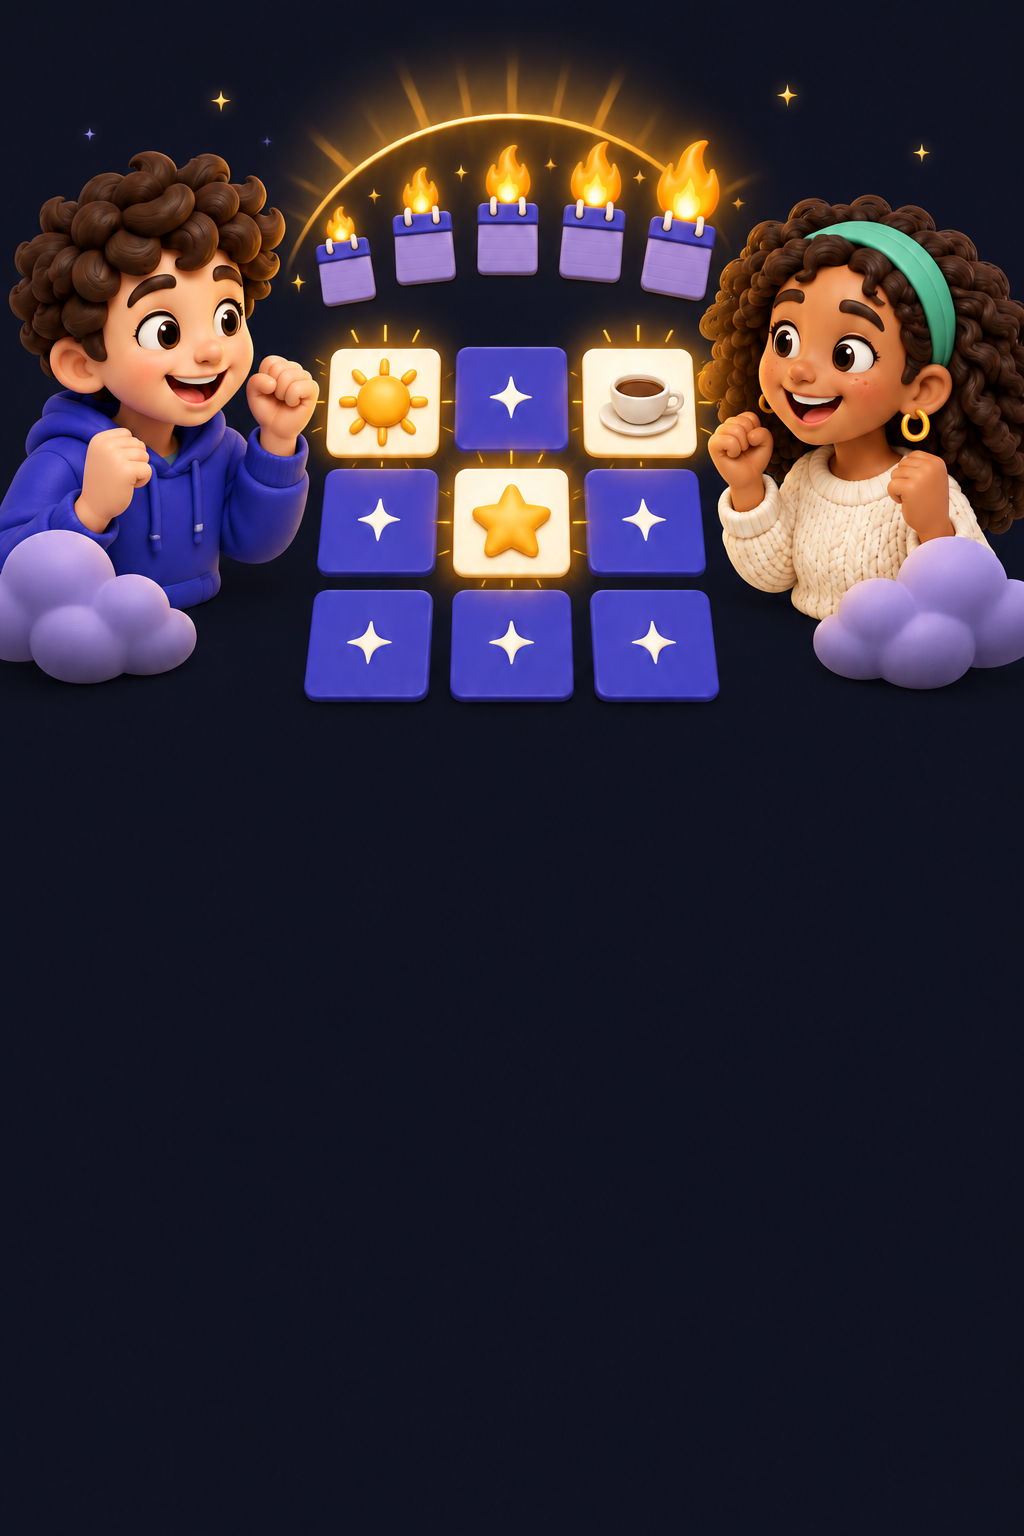
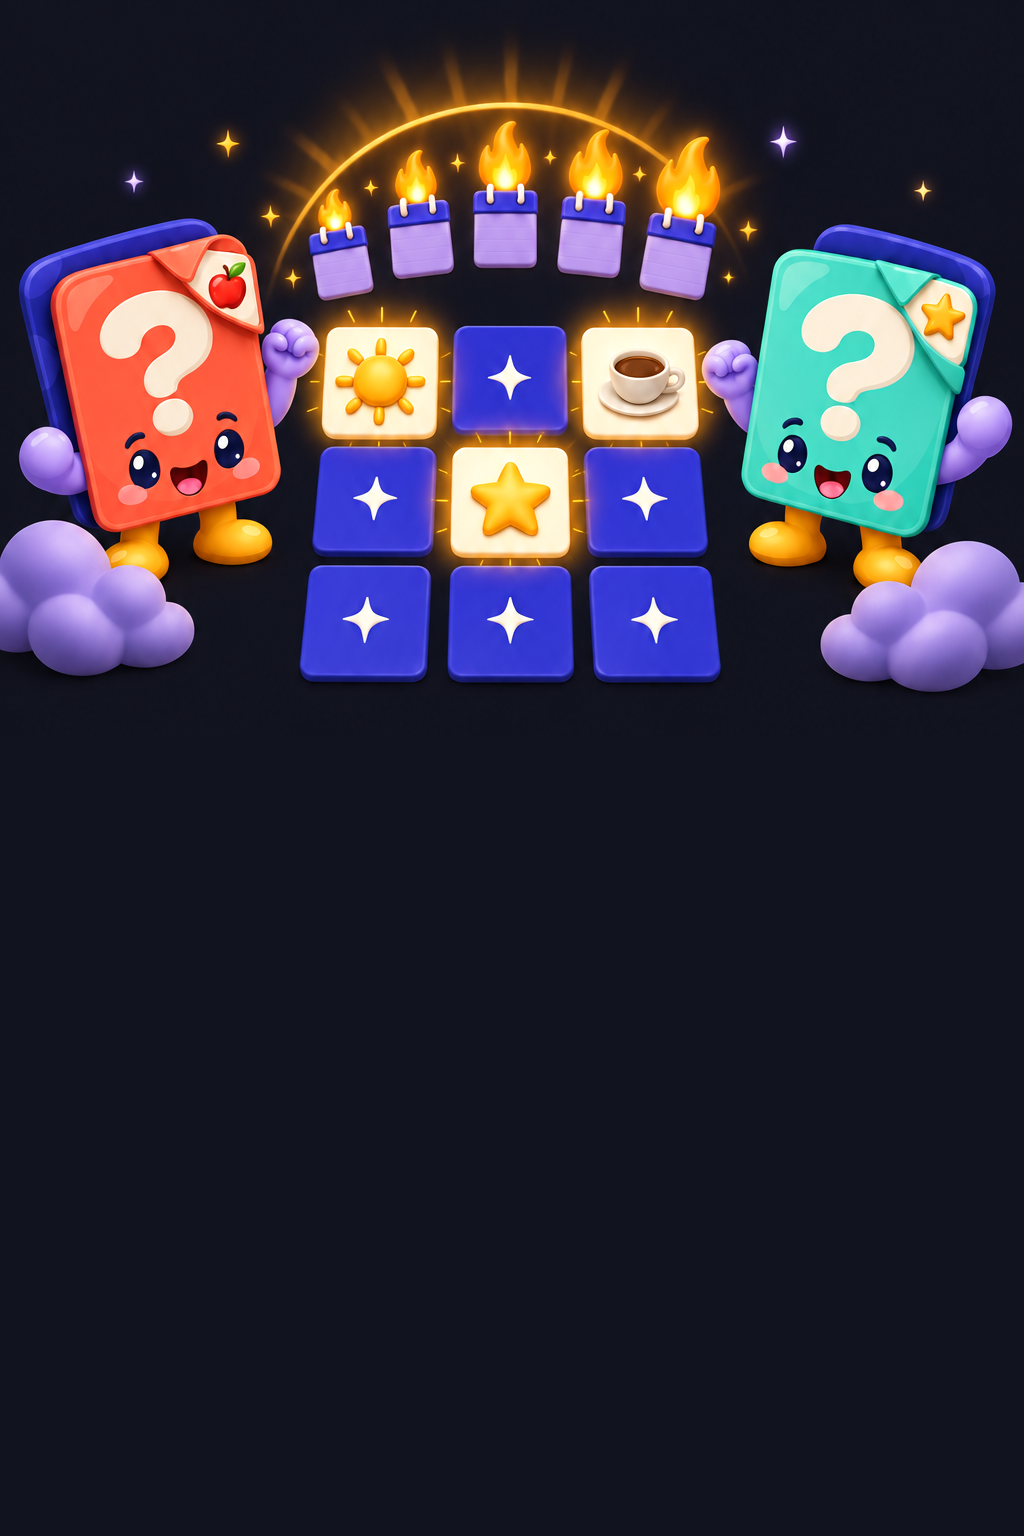
Replace the onboarding and review-invitation art with Flippo
The three first-launch onboarding illustrations (Play with Friends, Make It
Yours, Come Back Daily; light and dark) and the ReviewFlow review-invitation
illustration (onboarding-five-star-rating) showed two human children. They now
show Flippo, the app's card mascot, and a teal card friend, keeping the
composition, props and soft 3D clay style. None of the art carries text, so no
locale needs its own assets.

The onboarding JPGs keep their 1024x1536 canvas, their backgrounds match
appBackground in each appearance, and each scene stays inside the top 48% that
IntroCarouselView reserves for it. Android's drawable-nodpi onboarding images
are byte-identical to the iOS ones and change in the same commit. The review
art stays a transparent 1200x1500 PNG. The source PNGs in assets/onboarding/
are updated to match.

No code or Contents.json changes.

Changed region(s): [[0.0, 0.0312, 1.0, 0.4688]]

diff --git a/ios/CHANGELOG.md b/ios/CHANGELOG.md
@@ -2,6 +2,11 @@
 
 All notable changes to this project will be documented in this file.
 
+[Unreleased]
+
+### Changed
+- Redrew the first-launch onboarding illustrations ("Play with Friends", "Make It Yours", "Come Back Daily", light and dark) and the review-invitation illustration (`onboarding-five-star-rating`) around Flippo, the app's card mascot, and a teal card friend, replacing the two human children they showed before. Composition, props and the soft 3D clay style are unchanged, and the art still carries no text, so no locale needs new assets. The onboarding backgrounds now match the app background colour in both appearances and each scene stays inside the top 48% that `IntroCarouselView` reserves for it; the review art remains a transparent 1200x1500 PNG. Android's onboarding drawables are the same files, so both platforms change together, and the source art in `assets/onboarding/` is updated to match. No code changes.
+
 [4.3.0] 17-09-2026
 
 ### Fixed
